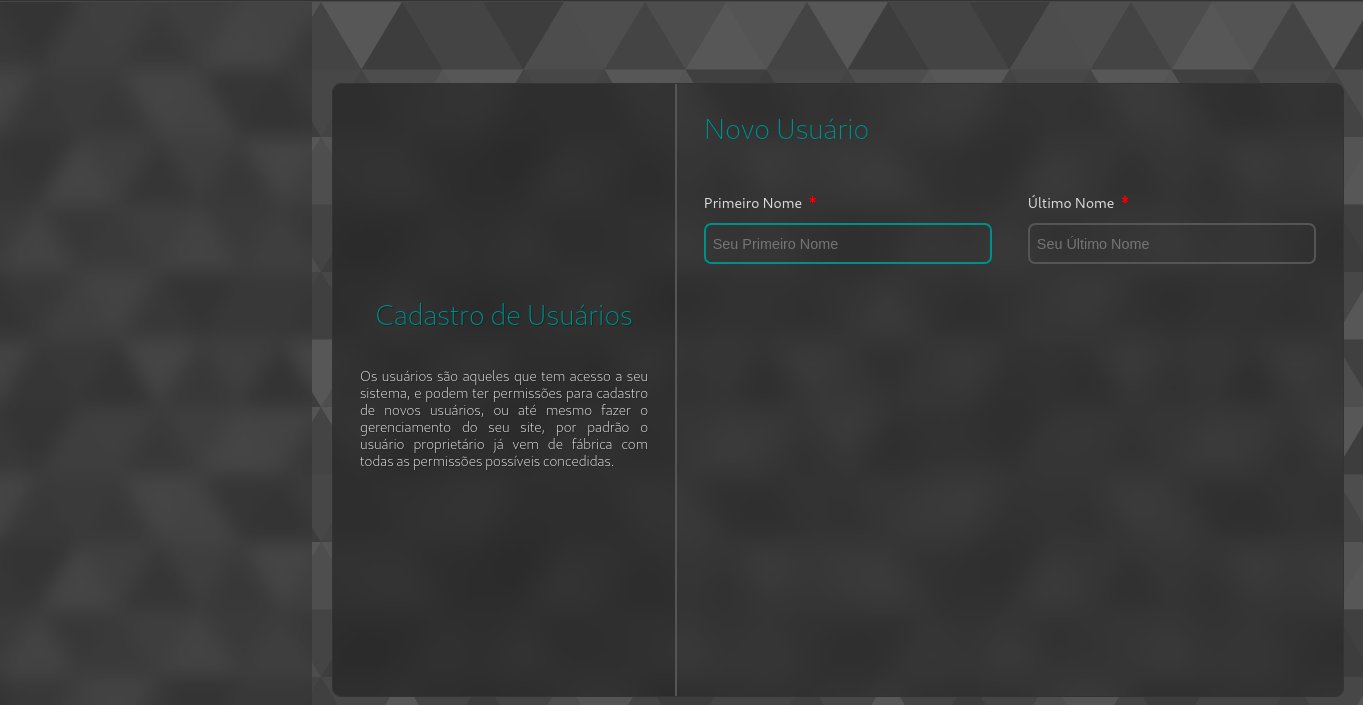
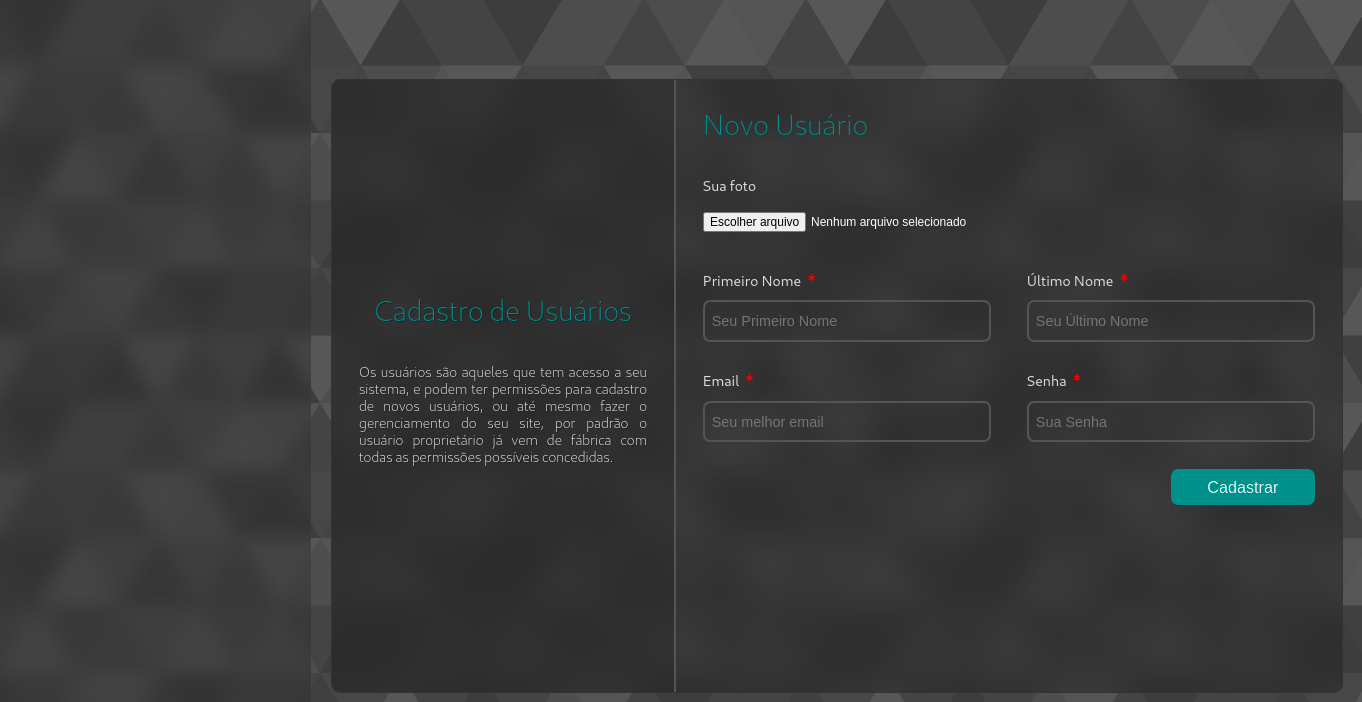
atualizaçao no tela de cadastro de usuarios

diff --git a/src/components/CadUser/index.jsx b/src/components/CadUser/index.jsx
@@ -22,8 +22,18 @@ const CadUser = () => {
         </div>
 
         <div className="cadUser__formData">
+
+        <div className="cadUSer__upload">
+            <label htmlFor="avatar">Sua foto</label>
+            <input 
+              type="file" 
+              name="avatar" 
+              id="avatar"
+            />
+          </div>
+
           <div className="cadUser__formInput-2">
-            <div className="cadUser__element">
+            <div className="cadUser__group">
               <label htmlFor="fname">
                 Primeiro Nome <span className="req" >*</span>
               </label>
@@ -32,12 +42,11 @@ const CadUser = () => {
                 type="text"
                 name="fname" 
                 id="fname"
-                autoComplete="off" 
                 placeholder="Seu Primeiro Nome"
               />
             </div>
 
-            <div className="cadUser__element">
+            <div className="cadUser__group">
               <label htmlFor="lname">
                 Último Nome <span className="req" >*</span>
               </label>
@@ -46,10 +55,42 @@ const CadUser = () => {
                 type="text"
                 name="lname" 
                 id="lname"
-                autoComplete="off" 
                 placeholder="Seu Último Nome"
               />
             </div>
+          </div>
+
+
+          <div className="cadUser__formInput-2">
+            <div className="cadUser__group">
+              <label htmlFor="email">
+                Email <span className="req" >*</span>
+              </label>
+              
+              <input
+                type="email"
+                name="email" 
+                id="email"
+                placeholder="Seu melhor email"
+              />
+            </div>
+
+            <div className="cadUser__group">
+              <label htmlFor="pass">
+                Senha <span className="req" >*</span>
+              </label>
+              
+              <input
+                type="password"
+                name="pass" 
+                id="pass"
+                placeholder="Sua Senha"
+              />
+            </div>
+          </div>
+
+          <div className="cadUSer__formActions">
+            <button>Cadastrar</button>
           </div>
         </div>
       </div>

diff --git a/src/components/CadUser/styles.css b/src/components/CadUser/styles.css
@@ -62,18 +62,19 @@
   display: flex;
   justify-content: space-between;
   width: 680px;
+  margin-bottom: 20px;
 }
 
-.cadUser__element {
+.cadUser__group {
   display: flex;
   flex-direction: column;
 }
 
-.cadUser__element label {
+.cadUser__group label {
   margin: 12px 0px;
 }
 
-.cadUser__element input {
+.cadUser__group input {
   outline: none;
   border: none;
   background: none;
@@ -85,7 +86,7 @@
   color: #eee;
 }
 
-.cadUser__element input:focus {
+.cadUser__group input:focus {
   border: 2px solid darkcyan;
 }
 
@@ -94,4 +95,35 @@
   font-weight: bold;
   font-size: 18px;
   margin-left: 4px;
+}
+
+.cadUSer__formActions {
+  display: flex;
+  justify-content: flex-end;
+  align-items: center;
+  margin-top: 30px;
+}
+
+.cadUSer__formActions button {
+  outline: none;
+  background: none;
+  border: none;
+  background-color: darkcyan;
+  color: #eee;
+  font-size: 18px;
+  width: 160px;
+  height: 40px;
+  border-radius: 8px;
+}
+
+.cadUSer__upload {
+  margin-bottom: 30px;
+  display: flex;
+  flex-direction: column;
+  color: #fff;
+}
+
+.cadUSer__upload label {
+  margin-bottom: 20px;
+  color: #ddd;
 }
